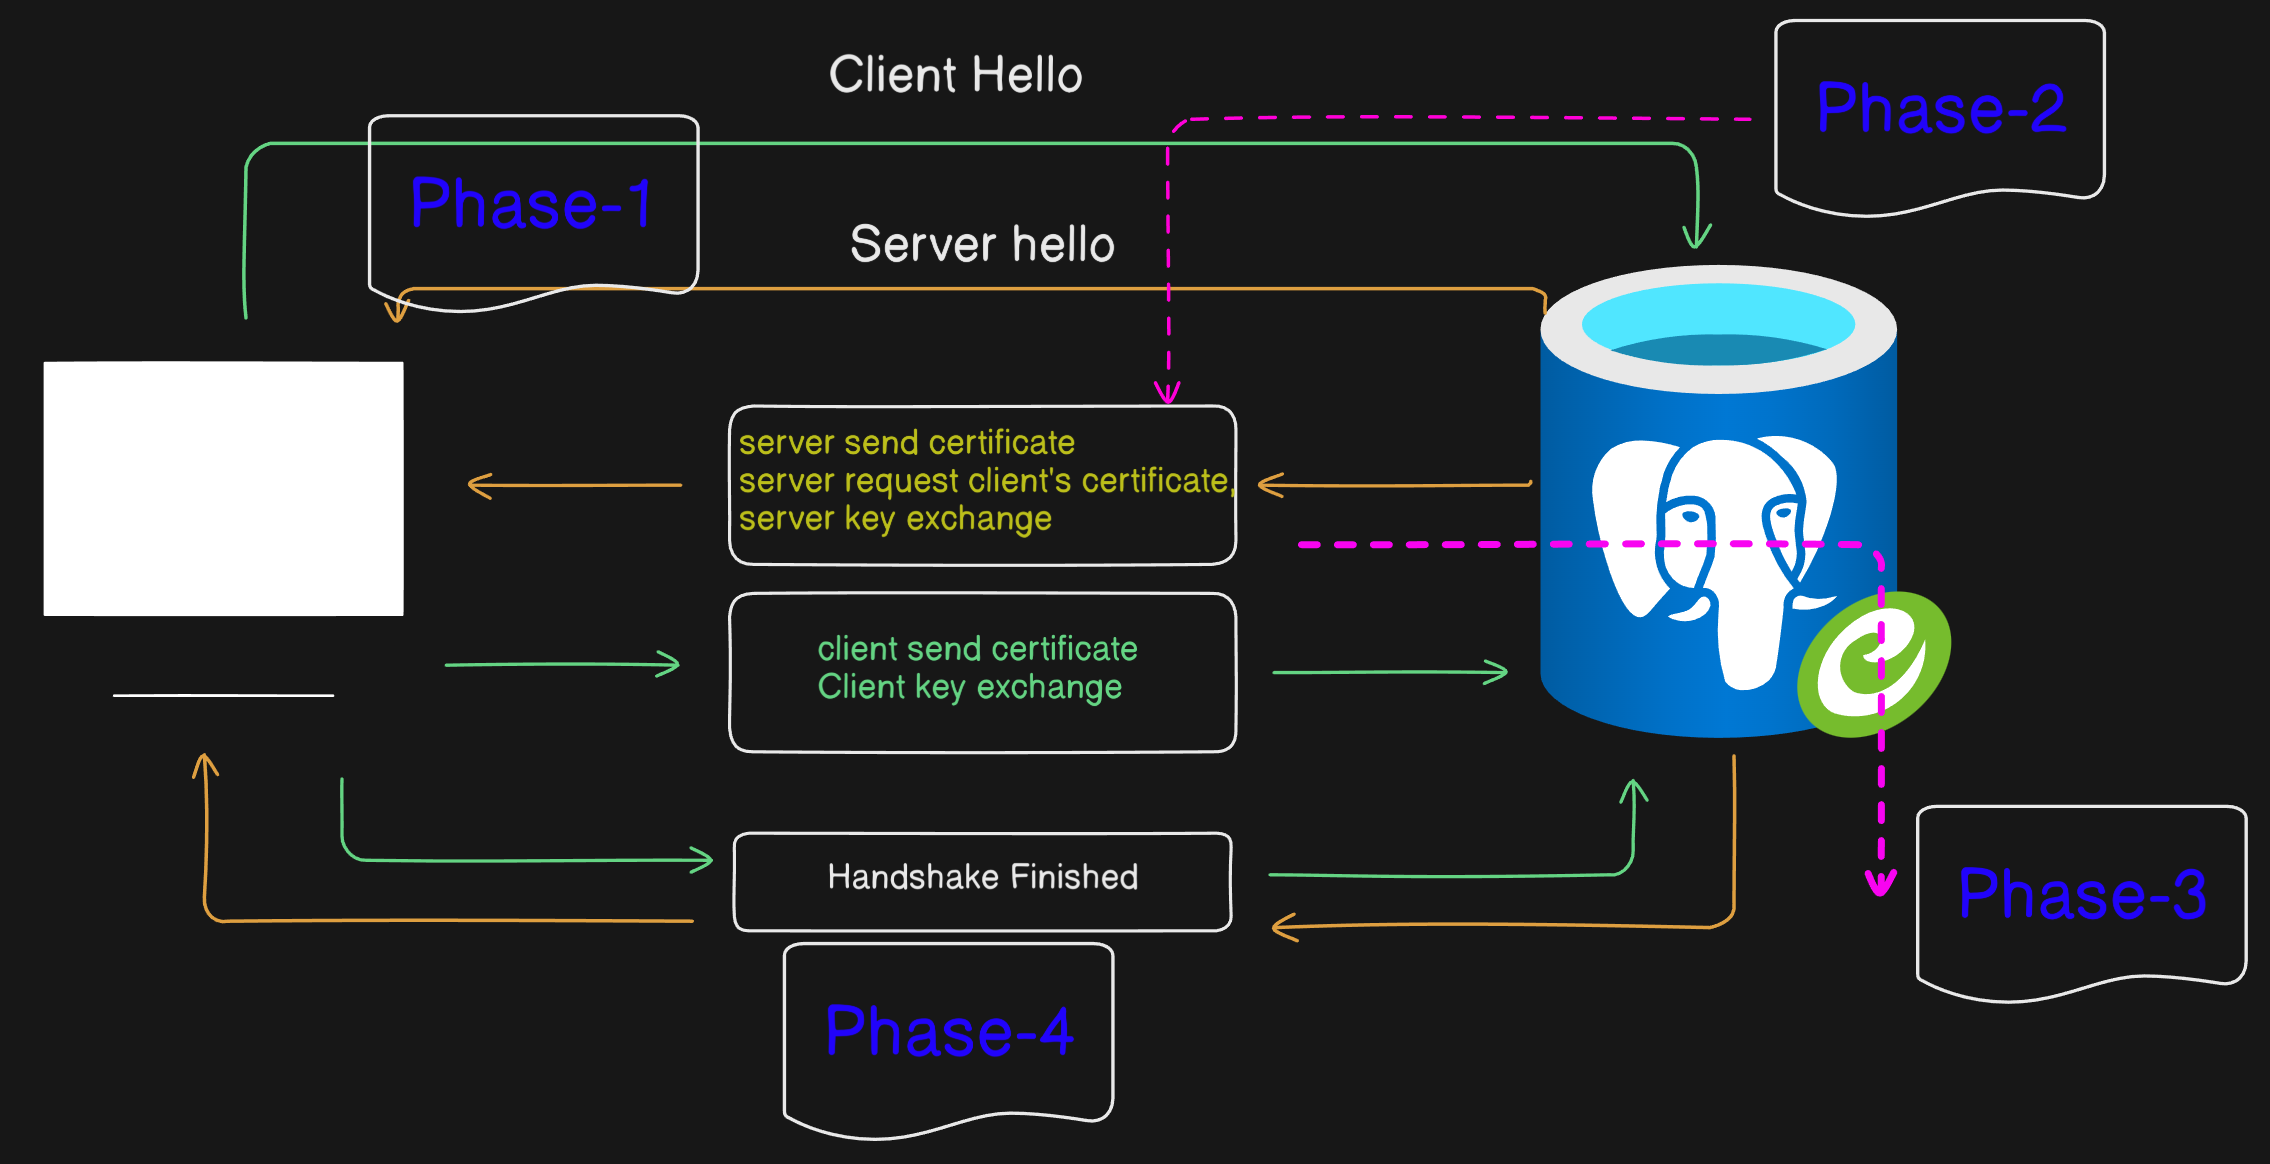
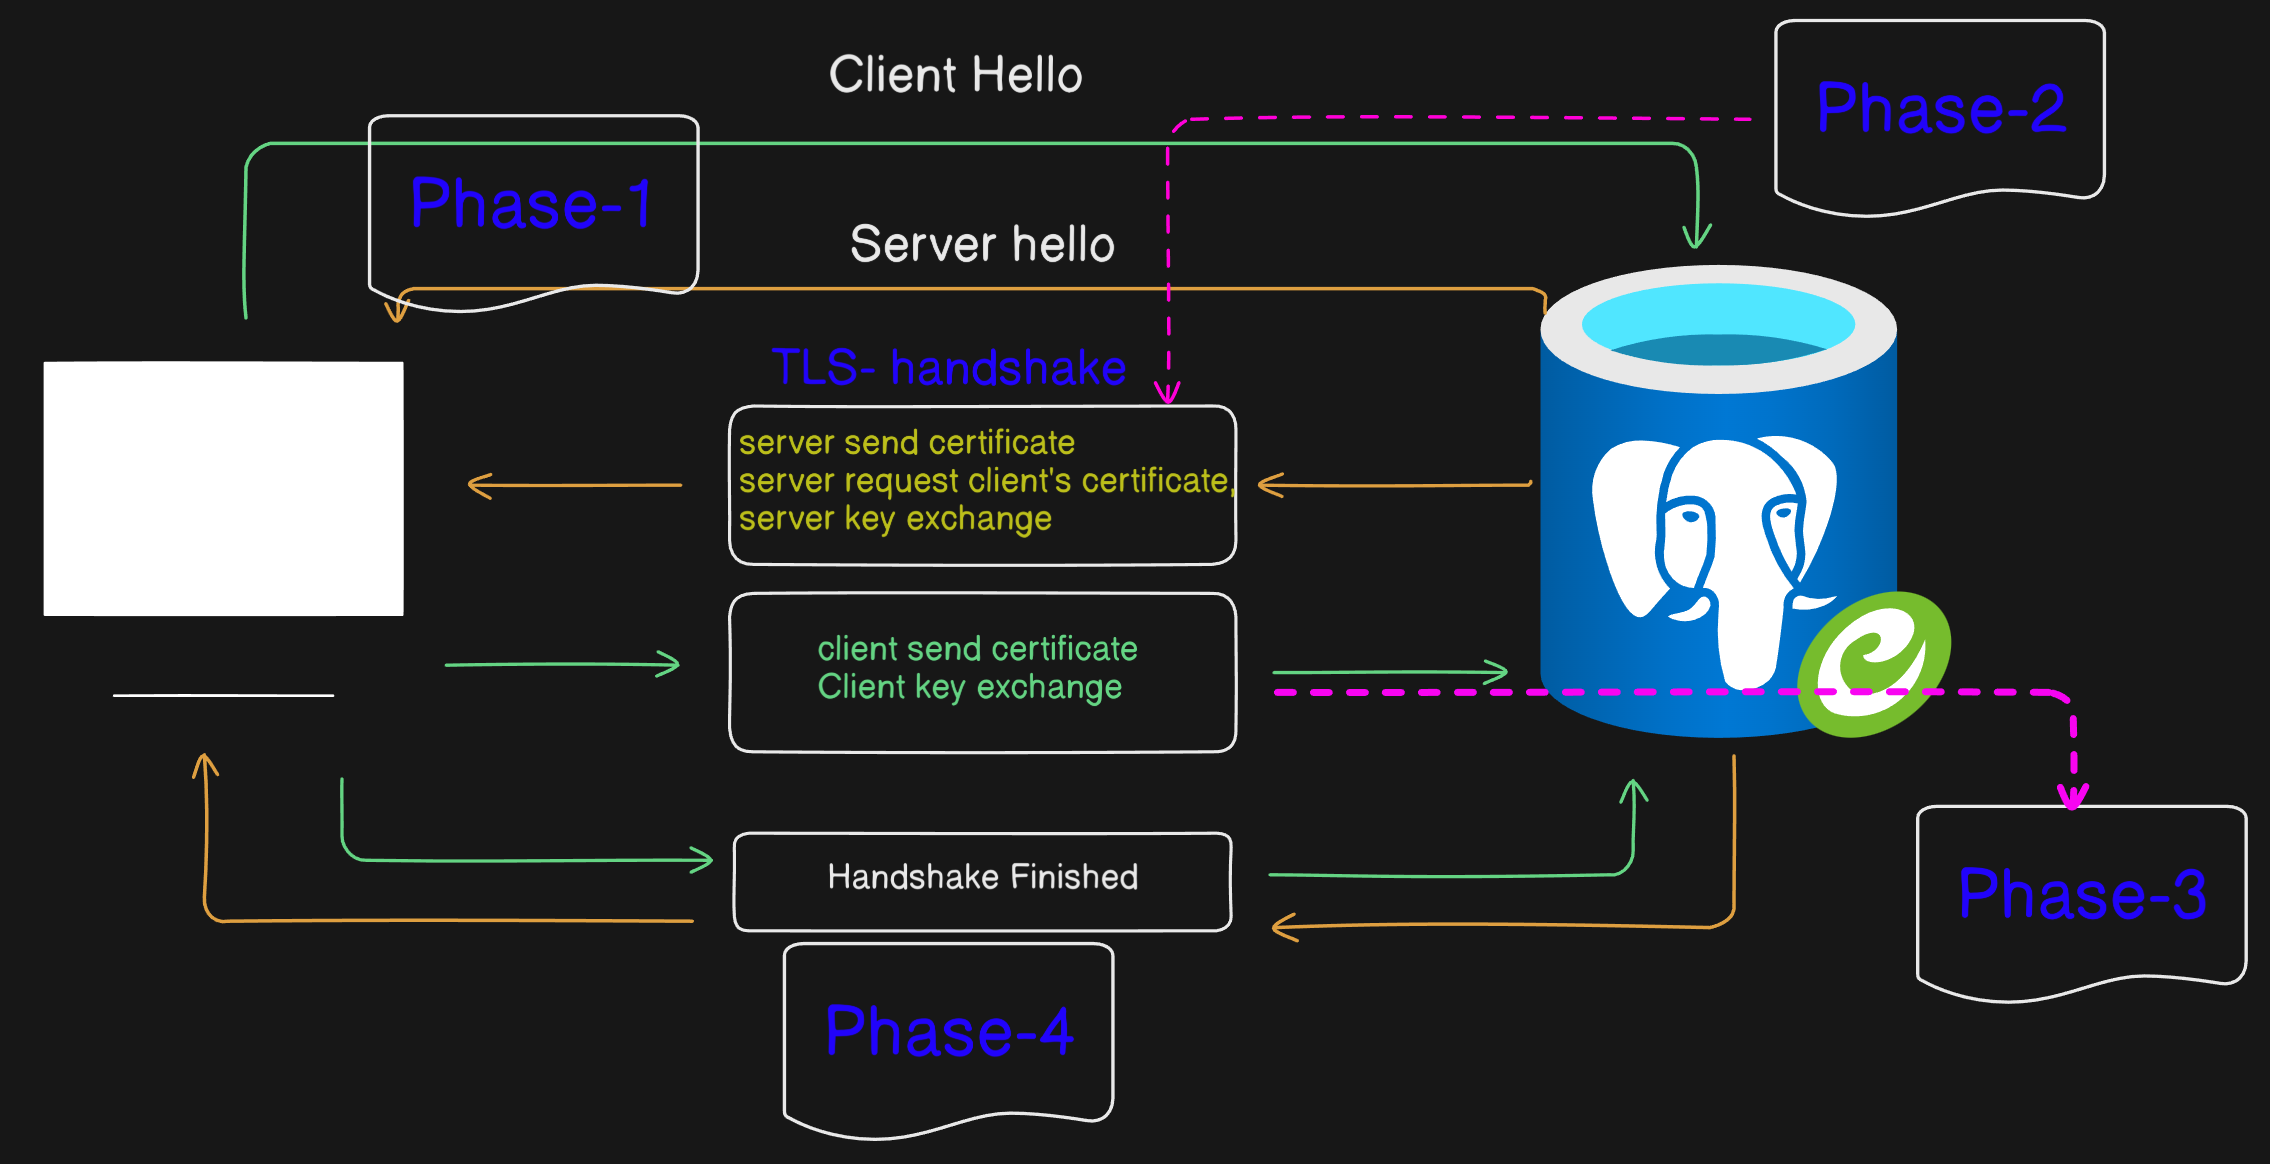
http/https complete

diff --git a/episod_1/04-http-https.md b/episod_1/04-http-https.md
@@ -56,5 +56,35 @@
 - Prevents data alter during transmission.
 - Improved the SEO `( Search Engine Optimization )`
 
-### 4. How HTTPS provide secure connection
+### 4. How HTTPS provide secure connection.
+
+- `TLS HandShake` Server send it's identity `TLS/SSL certificate` to client and request for client `identity`.
+
+- Client sends its identity `(certificate)` and client key exchange. HandShake finished ...
+
 ![](./img/https.png)
+
+### 5. `SSL ` ( Secure Sockets Layer) and `TLS ` (Transport Layer Security):
+
+- These are the encryption protocol for safe data transfer.
+
+### 6. `Proxy`:
+
+- A proxy server act as a middle man between client and the internet. Instead of directly connecting to the website, it first got to the proxy server and then connect to the website.
+
+* It block the content and Optimize the internet speed. Provide security and privacy`(hide the IP address)`.
+
+![](./img/proxy.png)
+
+### 7. `Reverse Proxy`:
+
+- It is a proxy server that act as a middle man between the client and the server. Instead of directly request goes to the server it goes to the proxy server and then proxy server decide which server to request the data.
+
+* It is also used to provide security and privacy to the server.
+  It is also known as load balancer.
+
+![](./img/reverse-proxy.png)
+
+### 8. How does VPN work?
+
+- VPN `(Virtual Private Network)` When we use VPN our internet traffic goes via a encrypted tunnel.
